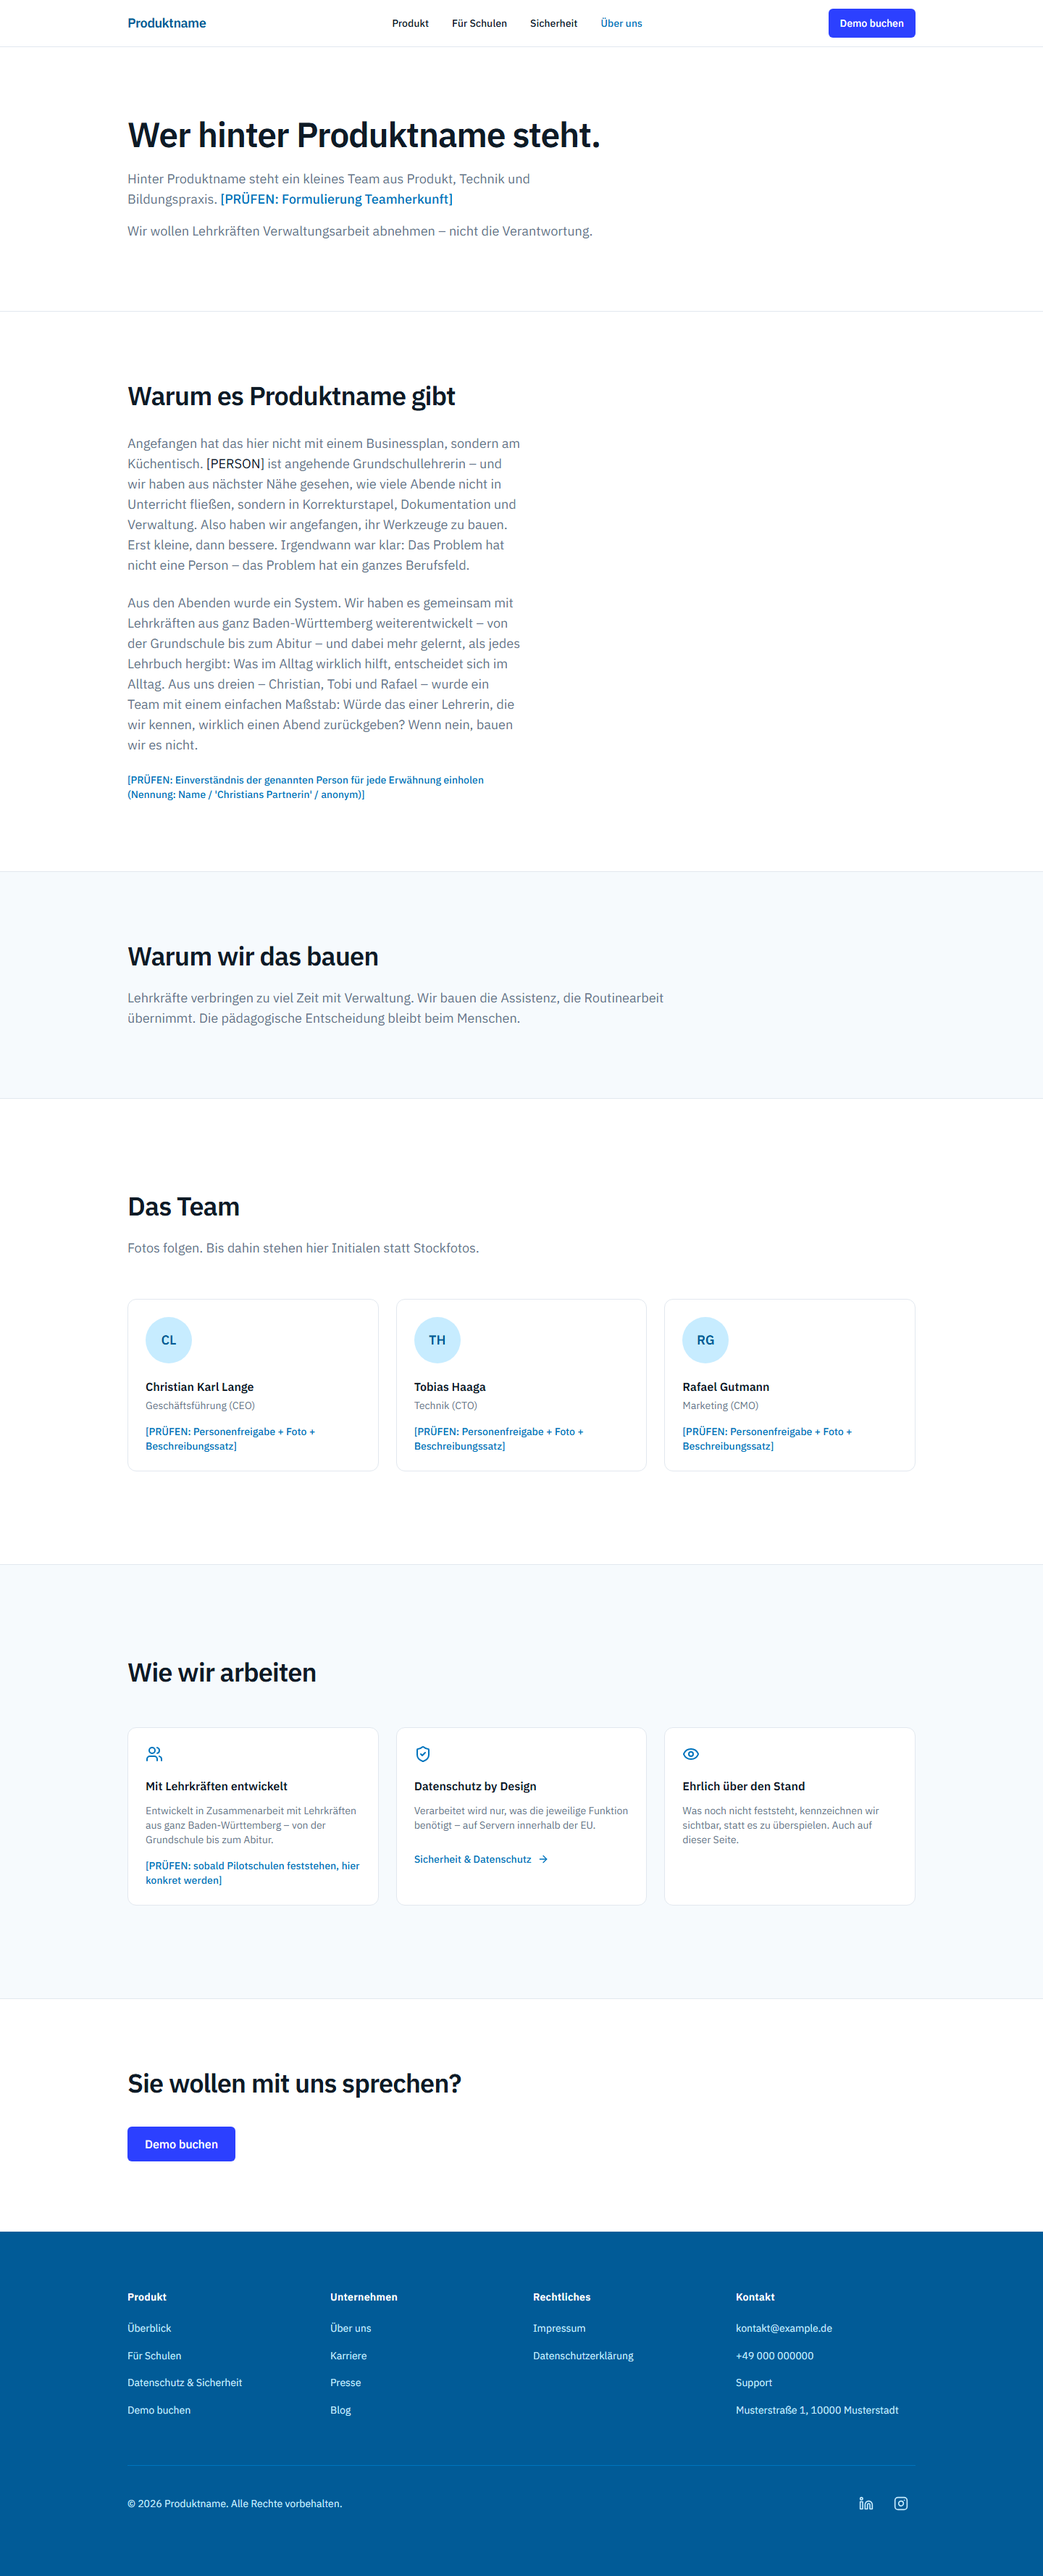
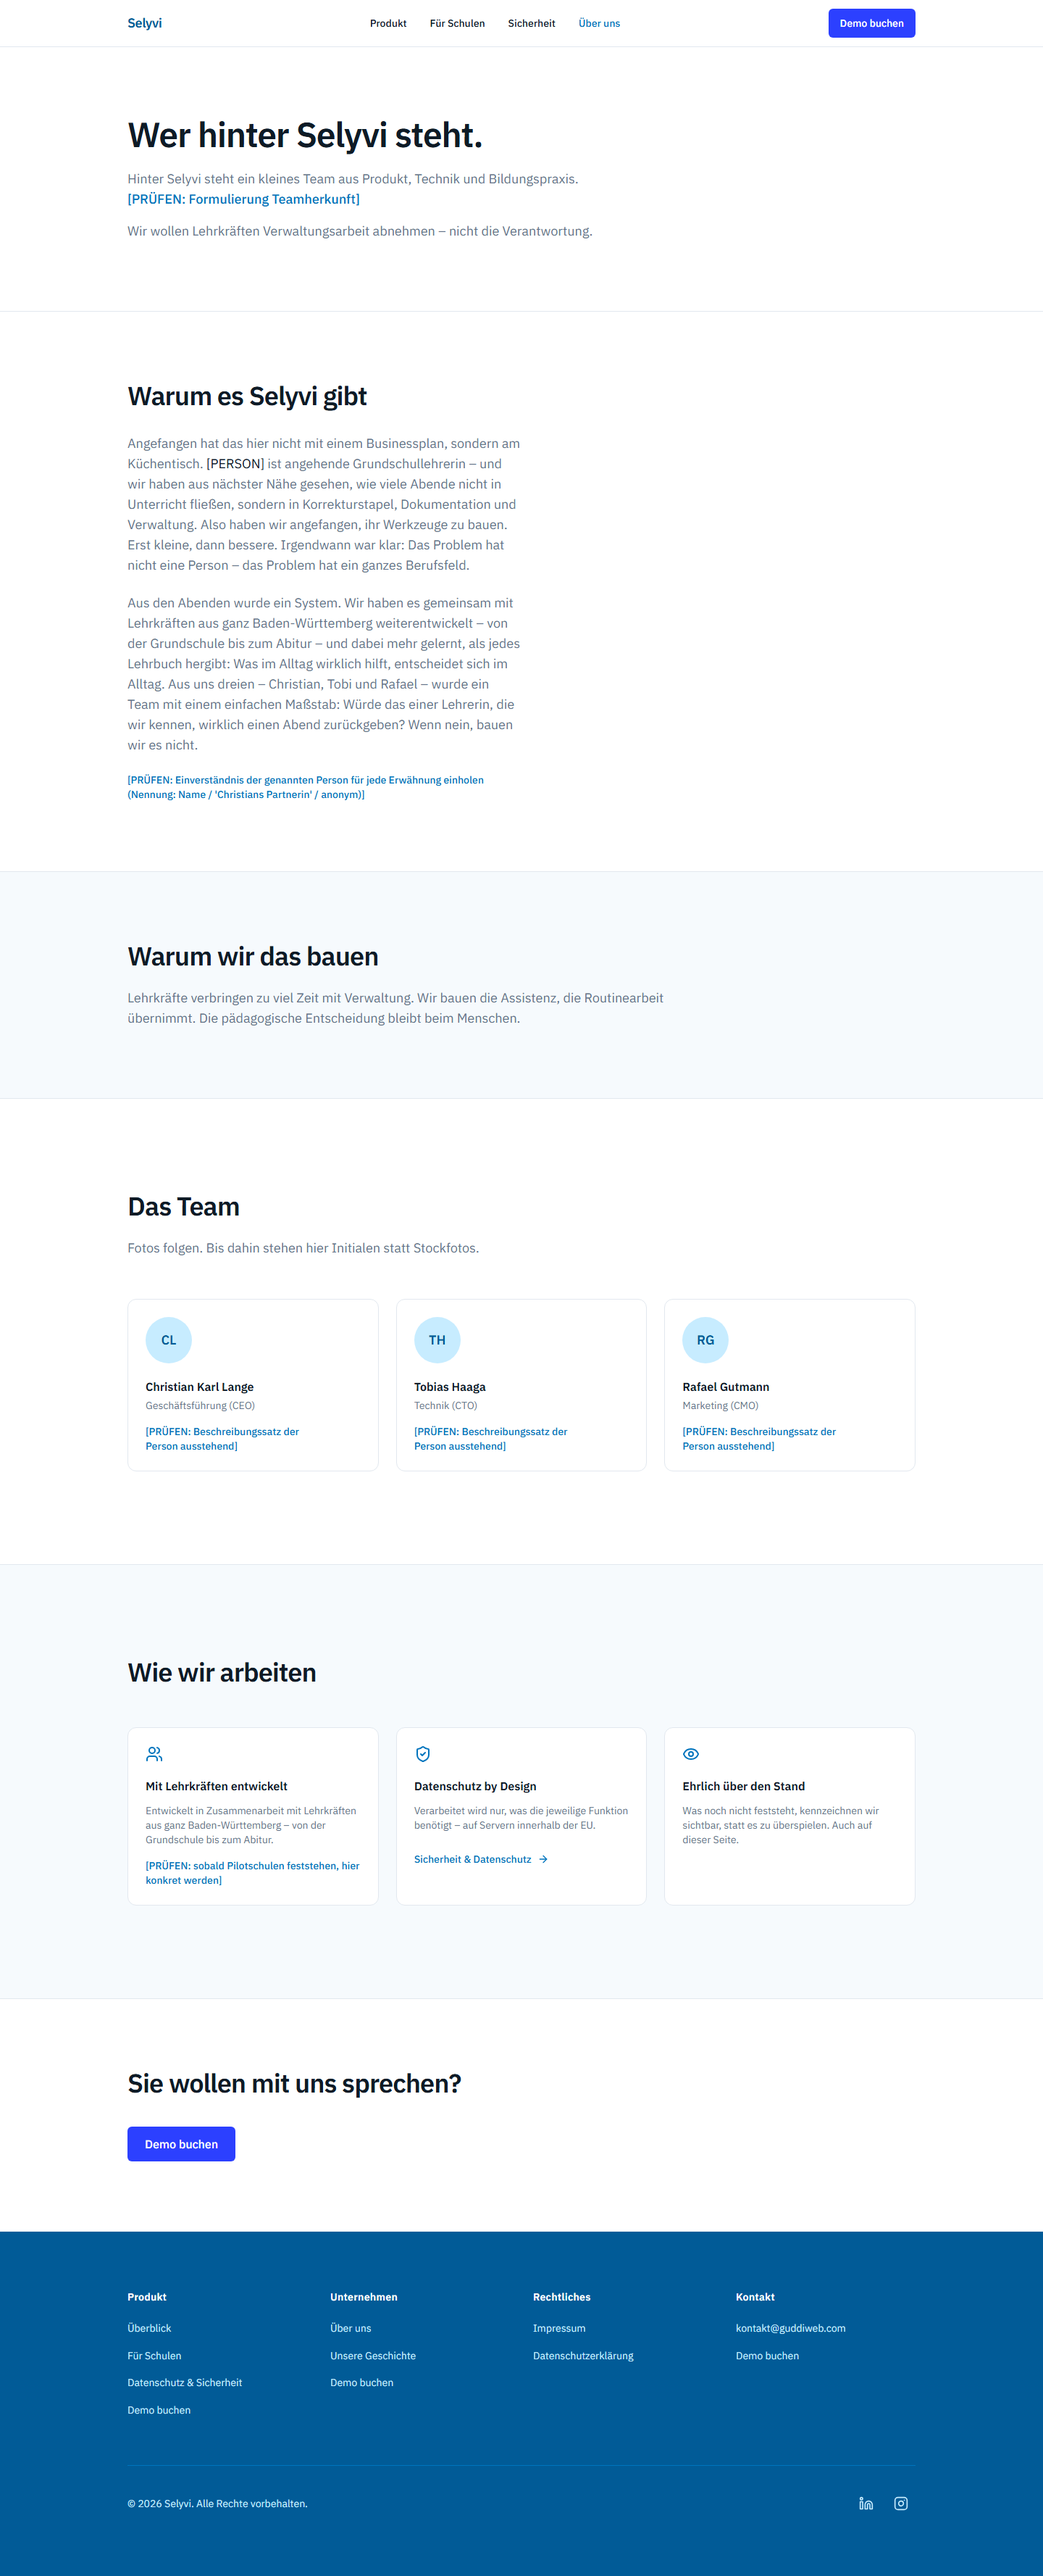
Personenfreigaben eingetragen, Beschreibungssaetze bleiben offen
Alle drei Personen haben der Nennung zugestimmt: approved: true in team.ts. Die
drei Freigabe-Marker auf den Team-Karten entfallen damit automatisch, und die
Erwaehnung beim Vornamen im Erzaehltext auf /ueber-uns ist mit abgedeckt.

Offen bleibt je Person der Beschreibungssatz. Dafuer gibt es jetzt einen eigenen,
kleineren Marker (TEAM_DESCRIPTION_REVIEW), der an das leere description-Feld
haengt und von allein verschwindet, sobald der Satz eingetragen ist.

Die beiden Marker zur weiteren, nicht oeffentlichen Person (Hero-Zeile und
[PERSON] im Erzaehltext) bleiben unveraendert stehen.

Nebenbei zwei veraltete README-Stellen nachgezogen: der Abschnitt zu den
Footer-Kontaktdaten beschrieb noch den behobenen Widerspruch, und die Einleitung
bezeichnete den Produktnamen noch als Platzhalter.

diff --git a/src/config/team.ts b/src/config/team.ts
@@ -8,10 +8,16 @@
  * Website, die auf ihrer eigenen Datenschutzseite Sorgfalt verspricht, kann
  * schlecht ungefragt Mitarbeitende auflisten.
  *
- * Solange `approved` auf false steht, zeigt die Karte einen sichtbaren
- * [PRÜFEN]-Hinweis. Beim Umstellen auf true bitte gleichzeitig:
- *   - `description` mit dem von der Person freigegebenen Satz fuellen
- *   - Foto ergaenzen (bis dahin steht der Initialen-Avatar)
+ * STAND: Alle drei Personen haben der Nennung zugestimmt (`approved: true`).
+ * Die Zustimmung deckt auch die Erwaehnung beim Vornamen im Erzaehltext auf
+ * /ueber-uns ab.
+ *
+ * Offen bleibt je Person der Beschreibungssatz: Solange `description` leer ist,
+ * zeigt die Karte einen kleineren [PRÜFEN]-Hinweis. Den Satz gibt die Person
+ * selbst vor – erfundene Beschreibungen kommen hier nicht hinein.
+ *
+ * Fotos fehlen weiterhin; darauf weist die Sektion im Fliesstext hin, dafuer
+ * braucht es keinen Marker.
  *
  * Ergaenzungen sind bewusst trivial: eine weitere Zeile in diesem Array.
  */
@@ -30,26 +36,34 @@ export type TeamMember = {
   approved: boolean;
 };
 
+/**
+ * Offener Punkt je Person: der Beschreibungssatz.
+ *
+ * Greift automatisch, solange `description` leer ist – unabhängig von der
+ * Freigabe. Wer den Satz einträgt, lässt den Marker damit verschwinden.
+ */
+export const TEAM_DESCRIPTION_REVIEW = "Beschreibungssatz der Person ausstehend";
+
 export const team: TeamMember[] = [
   {
     name: "Christian Karl Lange",
     role: "Geschäftsführung (CEO)",
     initials: "CL",
     description: "",
-    approved: false,
+    approved: true,
   },
   {
     name: "Tobias Haaga",
     role: "Technik (CTO)",
     initials: "TH",
     description: "",
-    approved: false,
+    approved: true,
   },
   {
     name: "Rafael Gutmann",
     role: "Marketing (CMO)",
     initials: "RG",
     description: "",
-    approved: false,
+    approved: true,
   },
 ];

diff --git a/src/components/sections/ueber-uns/team-grid.tsx b/src/components/sections/ueber-uns/team-grid.tsx
@@ -1,4 +1,4 @@
-import { team } from "@/config/team";
+import { TEAM_DESCRIPTION_REVIEW, team } from "@/config/team";
 import { ReviewMarker } from "@/components/ui/review-marker";
 
 /**
@@ -11,8 +11,8 @@ import { ReviewMarker } from "@/components/ui/review-marker";
  * Der Kreis ist dekorativ (aria-hidden): Der Name steht direkt daneben, eine
  * Vorlesung der Initialen waere reine Wiederholung.
  *
- * Die Personendaten liegen in src/config/team.ts. Solange `approved` dort auf
- * false steht, zeigt die Karte den Freigabe-Hinweis.
+ * Die Personendaten liegen in src/config/team.ts. Alle drei Freigaben liegen
+ * vor; offen ist je Person nur noch der Beschreibungssatz.
  */
 export function TeamGrid() {
   return (
@@ -49,9 +49,18 @@ export function TeamGrid() {
                 <p className="mt-4 text-sm text-gray-500">{member.description}</p>
               ) : null}
 
+              {/* Zwei getrennte offene Punkte, in dieser Reihenfolge:
+                  1. Freigabe fehlt  -> die Person darf gar nicht genannt werden
+                  2. Freigabe da, Satz fehlt -> nur der Beschreibungssatz offen
+                  Beide verschwinden von selbst, sobald das jeweilige Feld
+                  gefüllt ist. */}
               {!member.approved ? (
                 <p className="mt-4 text-sm">
                   <ReviewMarker note="Personenfreigabe + Foto + Beschreibungssatz" />
+                </p>
+              ) : member.description.length === 0 ? (
+                <p className="mt-4 text-sm">
+                  <ReviewMarker note={TEAM_DESCRIPTION_REVIEW} />
                 </p>
               ) : null}
             </li>

diff --git a/src/components/sections/ueber-uns/why-it-exists.tsx b/src/components/sections/ueber-uns/why-it-exists.tsx
@@ -22,17 +22,16 @@ import { ReviewMarker } from "@/components/ui/review-marker";
  * MUSS diesen Absatz mit anpassen. Es ist die einzige Stelle der Website, an
  * der die Aussage nicht aus der Konstante kommt.
  *
- * ZWEI OFFENE PUNKTE ZUR NENNUNG VON PERSONEN:
+ * NENNUNG VON PERSONEN – ein offener Punkt, einer erledigt:
  *
  * 1. Der Platzhalter [PERSON] bleibt stehen, bis die betreffende Person
  *    entschieden hat, OB und WIE sie genannt werden moechte. Ein Name, den
  *    jemand nicht freigegeben hat, gehoert nicht auf eine oeffentliche Seite –
  *    schon gar nicht auf eine, die anderswo Datensparsamkeit verspricht.
  *
- * 2. Der Text nennt ausserdem Christian, Tobi und Rafael beim Vornamen. Deren
- *    Freigabe ist bereits ueber `approved` in src/config/team.ts erfasst; die
- *    Erwaehnung HIER faellt unter dieselbe Zustimmung und muss mit abgefragt
- *    werden.
+ * 2. Die Nennung von Christian, Tobi und Rafael beim Vornamen ist abgedeckt:
+ *    Alle drei stehen in src/config/team.ts auf `approved: true`, und die
+ *    Zustimmung schliesst die Erwaehnung in diesem Text ein. ERLEDIGT.
  */
 export function WhyItExists() {
   return (

diff --git a/README.md b/README.md
@@ -3,7 +3,8 @@
 Fundament der Marketing-Website (B2B-SaaS für Schulen).
 Next.js 16 (App Router, TypeScript) · Tailwind CSS 4 · shadcn/ui · IBM Plex Sans.
 
-Der Produktname ist durchgängig ein Platzhalter.
+Der Produktname steht an genau einer Stelle: `PRODUCT_NAME` in
+[src/config/brand.ts](src/config/brand.ts).
 
 ## Befehle
 
@@ -316,13 +317,24 @@ in [src/config/team.ts](src/config/team.ts).
 Diese Seite nutzt bewusst **keine** `FinalCta` – das Kontakt-Band übernimmt die
 Rolle des Abschluss-CTA. Zwei CTA-Sektionen untereinander wären eine Dopplung.
 
-**Personenfreigabe.** Namen, Funktionen und Fotos realer Personen dürfen erst
-öffentlich stehen, wenn die jeweilige Person zugestimmt hat. Jede Karte trägt
-deshalb einen Marker, solange `approved` in `team.ts` auf `false` steht. Beim
-Umstellen auf `true` gleichzeitig `description` mit dem freigegebenen Satz
-füllen. Avatare sind Initialen auf brand-100 – **keine Stockfotos**: ein
-Stockfoto an der Stelle einer realen Person ist eine kleine Lüge, und das
-ausgerechnet auf der Seite, die Vertrauen herstellen soll.
+**Personenfreigabe – erledigt.** Alle drei Personen haben der Nennung
+zugestimmt (`approved: true` in [team.ts](src/config/team.ts)). Die Zustimmung
+deckt auch die Erwähnung beim Vornamen im Erzähltext des Abschnitts „Warum es …
+gibt“ ab.
+
+**Offen je Person: der Beschreibungssatz.** Solange `description` leer ist,
+zeigt die Karte einen kleineren Marker. Den Satz gibt die Person selbst vor –
+erfundene Beschreibungen kommen nicht hinein. Beide Marker hängen an je einem
+Feld und verschwinden von allein, sobald es gefüllt ist.
+
+Avatare sind Initialen auf brand-100 – **keine Stockfotos**: ein Stockfoto an
+der Stelle einer realen Person ist eine kleine Lüge, und das ausgerechnet auf
+der Seite, die Vertrauen herstellen soll. Dass Fotos noch fehlen, steht als
+Fließtext in der Sektion; dafür braucht es keinen Marker.
+
+**Weiterhin offen** ist die Nennung einer weiteren, nicht öffentlichen Person:
+Der Platzhalter `[PERSON]` im Erzähltext und die Herkunftszeile im Hero der
+Startseite tragen dazu je einen Marker.
 
 ## Demo (/demo)
 
@@ -461,17 +473,15 @@ Im Footer standen unter „Rechtliches“ die Einträge **AGB** und
 entfernt. Vor dem Launch klären, ob die Seiten gebraucht werden (AGB je nach
 Vertragsmodell, Barrierefreiheitserklärung je nach Anwendbarkeit des BFSG).
 
-### Offener Widerspruch: Footer-Kontaktdaten
+### Footer-Kontaktdaten
 
-Die Kontaktspalte im Footer zeigt weiterhin Platzhalter (`kontakt@example.de`,
-`+49 000 000000`, `Musterstraße 1, 10000 Musterstadt`) aus
-[site.ts](src/config/site.ts), während das Impressum echte Daten nennt. **Auf
-jeder Seite stehen damit zwei verschiedene Kontaktangaben.**
+Die Kontaktspalte im Footer speist sich aus [legal.ts](src/config/legal.ts) und
+ist bewusst reduziert: **nur die E-Mail-Adresse**, kein Telefon, keine
+Anschrift. Die vollständigen Angaben stehen im Impressum – eine private
+Mobilnummer auf jeder einzelnen Seite auszugeben, ist etwas anderes, als sie im
+Impressum bereitzuhalten.
 
-Bewusst nicht eigenmächtig geändert: Ob die private Mobilnummer im Footer jeder
-Seite erscheinen soll, ist eine Entscheidung des Betreibers, keine technische.
-Die saubere Lösung wäre, die Spalte aus `legal.ts` zu speisen – nach demselben
-Muster wie die Datenschutzerklärung.
+Damit nennt die Website an keiner Stelle zwei verschiedene Kontaktadressen.
 
 ## SEO-Grundausstattung
 
@@ -683,21 +693,21 @@ grep -rn "ReviewMarker\|review:" src/components/sections/sicherheit/
 Blockieren den Launch nicht, müssen aber vor dem Livegang aufgelöst oder
 gestrichen werden.
 
-| Seite        | Offen                                                                                                                                               |
-| ------------ | --------------------------------------------------------------------------------------------------------------------------------------------------- |
-| `/`          | 3 FAQ-Antworten (Schulformen, Datenzugriff, Einstiegsprozess), Einverständnis Person (Hero), Zahlen zur Praxis-Aussage                              |
-| `/produkt`   | 3 Stichpunkte (Bewertungsmaßstäbe, gemeinsame Ablage, Rollen- und Rechtekonzept), 3 „In Arbeit“-Karten, 4 Praxis-Beispiele in den Mikrozeilen       |
-| `/schulen`   | 2 Timeline-Schritte (Pilotphase, Schulung), Rollen-Block rechte Spalte, AVV-Dokument, 3 FAQ-Antworten                                               |
-| `/ueber-uns` | Formulierung Teamherkunft, 3 Personenfreigaben, Karte „Mit Lehrkräften entwickelt“, Einverständnis Person ([PERSON] im Abschnitt „Warum es … gibt“) |
-| `/demo`      | Reaktionszeit (Erfolgsansicht), Kontaktadresse (Fehlerfall), `DEMO_MAIL_TO`, `DEMO_MAIL_FROM` in `.env.example`                                     |
+| Seite        | Offen                                                                                                                                                             |
+| ------------ | ----------------------------------------------------------------------------------------------------------------------------------------------------------------- |
+| `/`          | 3 FAQ-Antworten (Schulformen, Datenzugriff, Einstiegsprozess), Einverständnis Person (Hero), Zahlen zur Praxis-Aussage                                            |
+| `/produkt`   | 3 Stichpunkte (Bewertungsmaßstäbe, gemeinsame Ablage, Rollen- und Rechtekonzept), 3 „In Arbeit“-Karten, 4 Praxis-Beispiele in den Mikrozeilen                     |
+| `/schulen`   | 2 Timeline-Schritte (Pilotphase, Schulung), Rollen-Block rechte Spalte, AVV-Dokument, 3 FAQ-Antworten                                                             |
+| `/ueber-uns` | Formulierung Teamherkunft, 3 Beschreibungssätze der Personen, Karte „Mit Lehrkräften entwickelt“, Einverständnis Person ([PERSON] im Abschnitt „Warum es … gibt“) |
+| `/demo`      | Reaktionszeit (Erfolgsansicht), Kontaktadresse (Fehlerfall), `DEMO_MAIL_TO`, `DEMO_MAIL_FROM` in `.env.example`                                                   |
 
 Mehrere Punkte hängen zusammen: Rollen- und Rechtemodell sowie der AVV-Entwurf
 tauchen auf drei Seiten auf. Wer sie auflöst, erledigt jeweils mehrere Marker –
 und muss alle Fundstellen anfassen, nicht nur die auffälligste.
 
-Die drei Personenfreigaben auf `/ueber-uns` hängen an keinem anderen Punkt,
-brauchen aber jeweils eine eigene Rückmeldung der genannten Person – das lässt
-sich weder sammeln noch delegieren.
+Die drei Beschreibungssätze auf `/ueber-uns` hängen an keinem anderen Punkt,
+brauchen aber jeweils einen Satz der genannten Person – das lässt sich weder
+sammeln noch delegieren. Die Freigaben zur Nennung selbst liegen inzwischen vor.
 
 - **DSGVO-Block**: Die vier Erläuterungssätze sind rechtliche Zusagen und
   brauchen eine Freigabe von Rechtsseite.
